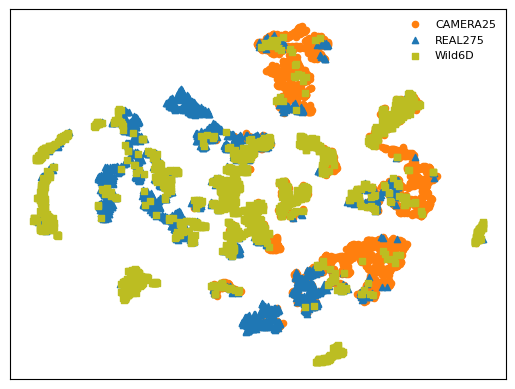
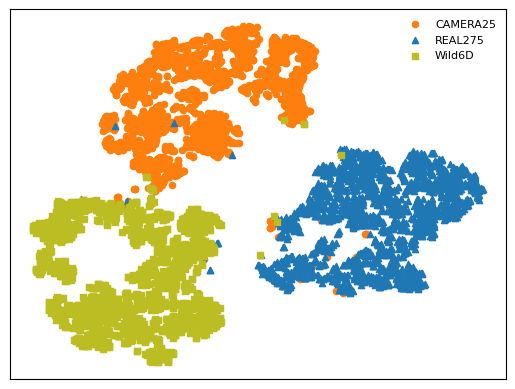
[2023.12.27]

diff --git a/src/network/nocs_wild6d/net.py b/src/network/nocs_wild6d/net.py
@@ -2,18 +2,56 @@ import torch
 import torch.nn as nn
 import torch.nn.functional as F
 
+from src.module.extractor.pts.pointnet_lib.pointnet2 import Pointnet2ClsMSG
+
+# class Net(nn.Module):
+#     def __init__(self, cfg):
+#         super(Net, self).__init__()
+#         self.conv1 = nn.Conv1d(3, 64, 1)
+#         self.conv2 = nn.Conv1d(64, 128, 1)
+#         self.conv3 = nn.Conv1d(256, 256, 1)
+#         self.conv4 = nn.Conv1d(256, 1024, 1)
+#         self.fc = nn.Linear(1024, cfg.emb_dim)
+
+#         self.fc1 = nn.Linear(cfg.emb_dim, 256)
+#         self.fc2 = nn.Linear(256, 128)
+#         self.fc3 = nn.Linear(128, 3)
+
+#     def forward(self, inputs):
+#         pts = inputs['pts']
+#         c = torch.mean(pts, 1, keepdim=True)
+#         pts = pts - c
+#         N = pts.size()[1]
+
+#         x = F.relu(self.conv1(pts.permute(0, 2, 1)))
+#         x = F.relu(self.conv2(x))
+#         global_feat = F.adaptive_max_pool1d(x, 1)
+#         x = torch.cat((x, global_feat.repeat(1, 1, N)), dim=1)
+#         x = F.relu(self.conv3(x))
+#         x = F.relu(self.conv4(x))
+#         x = torch.squeeze(F.adaptive_max_pool1d(x, 1), dim=2)
+#         pts_feat = self.fc(x)
+
+#         out = F.relu(self.fc1(pts_feat))
+#         out = F.relu(self.fc2(out))
+#         out = self.fc3(out)
+#         out = F.softmax(out, -1)
+
+#         outputs = {}
+#         outputs['pts_feat'] = pts_feat
+#         outputs['label_pred'] = out
+#         outputs['label_gt'] = inputs['label']
+
+#         return outputs
+
 class Net(nn.Module):
     def __init__(self, cfg):
         super(Net, self).__init__()
-        self.conv1 = nn.Conv1d(3, 64, 1)
-        self.conv2 = nn.Conv1d(64, 128, 1)
-        self.conv3 = nn.Conv1d(256, 256, 1)
-        self.conv4 = nn.Conv1d(256, 1024, 1)
-        self.fc = nn.Linear(1024, cfg.emb_dim)
+        self.pts_encoder = Pointnet2ClsMSG(0)
 
-        self.fc1 = nn.Linear(cfg.emb_dim, 256)
-        self.fc2 = nn.Linear(256, 128)
-        self.fc3 = nn.Linear(128, 3)
+        self.fc1 = nn.Linear(1024, 512)
+        self.fc2 = nn.Linear(512, 256)
+        self.fc3 = nn.Linear(256, 3)
 
     def forward(self, inputs):
         pts = inputs['pts']
@@ -21,14 +59,7 @@ class Net(nn.Module):
         pts = pts - c
         N = pts.size()[1]
 
-        x = F.relu(self.conv1(pts.permute(0, 2, 1)))
-        x = F.relu(self.conv2(x))
-        global_feat = F.adaptive_max_pool1d(x, 1)
-        x = torch.cat((x, global_feat.repeat(1, 1, N)), dim=1)
-        x = F.relu(self.conv3(x))
-        x = F.relu(self.conv4(x))
-        x = torch.squeeze(F.adaptive_max_pool1d(x, 1), dim=2)
-        pts_feat = self.fc(x)
+        pts_feat = self.pts_encoder(pts)
 
         out = F.relu(self.fc1(pts_feat))
         out = F.relu(self.fc2(out))

diff --git a/src/runner/nocs_wild6d/solver.py b/src/runner/nocs_wild6d/solver.py
@@ -45,6 +45,7 @@ class Solver(gorilla.solver.BaseSolver):
 
         self.per_write = cfg.per_write
 
+        # 加载预训练模型
         if cfg.checkpoint_epoch != -1:
             logger.info("=> loading checkpoint from epoch {} ...".format(cfg.checkpoint_epoch))
             checkpoint = os.path.join(cfg.log_dir, 'epoch_' + str(cfg.checkpoint_epoch) + '.pth')
@@ -113,8 +114,7 @@ class Solver(gorilla.solver.BaseSolver):
                 self.log_buffer.average(self.per_write)
                 prefix = '[{}/{}][{}/{}][{}] Train - '.format(
                     self.epoch, self.cfg.max_epoch, i, len(self.dataloaders["train"]), self.iter)
-                write_info = self.get_logger_info(
-                    prefix, dict_info=self.log_buffer._output)
+                write_info = self.get_logger_info(prefix, dict_info=self.log_buffer._output)
                 self.logger.info(write_info)
                 self.write_summary(self.log_buffer._output, mode)
             
@@ -126,6 +126,27 @@ class Solver(gorilla.solver.BaseSolver):
             self.iter += 1
 
 
+        dict_info_epoch = self.log_buffer.avg
+        self.log_buffer.clear()
+
+        return dict_info_epoch
+    
+    def evaluate(self):
+        mode = 'eval'
+        self.model.eval()
+
+        for i, data in enumerate(self.dataloaders["eval"]):
+            with torch.no_grad():
+                _, dict_info_step = self.step(data, mode)
+                self.log_buffer.update(dict_info_step)
+                if i % self.per_write == 0:
+                    self.log_buffer.average(self.per_write)
+                    prefix = '[{}/{}][{}/{}] Test - '.format(
+                        self.epoch, self.cfg.max_epoch, i, len(self.dataloaders["eval"]))
+                    write_info = self.get_logger_info(
+                        prefix, dict_info=self.log_buffer._output)
+                    self.logger.info(write_info)
+                    self.write_summary(self.log_buffer._output, mode)
         dict_info_epoch = self.log_buffer.avg
         self.log_buffer.clear()
 

diff --git a/src/module/extractor/pts/pointnet_lib/pointnet2.py b/src/module/extractor/pts/pointnet_lib/pointnet2.py
@@ -1,17 +1,9 @@
 import torch
 import torch.nn as nn
-import sys
-import os
 
-sys.path.append(os.path.dirname(os.path.dirname(__file__)))
-from networks.pts_encoder.pointnet2_utils.pointnet2.pointnet2_modules import PointnetFPModule, PointnetSAModuleMSG
-import networks.pts_encoder.pointnet2_utils.pointnet2.pytorch_utils as pt_utils
-from ipdb import set_trace
-from configs.config import get_config
+import src.module.extractor.pts.pointnet_lib.pointnet2_utils.pointnet2.pytorch_utils as pt_utils
 
-
-cfg = get_config()
-
+from src.module.extractor.pts.pointnet_lib.pointnet2_utils.pointnet2.pointnet2_modules import PointnetFPModule, PointnetSAModuleMSG
 
 def get_model(input_channels=0):
     return Pointnet2MSG(input_channels=input_channels)
@@ -78,12 +70,13 @@ ClsMSG_CFG_Lighter= {
     'DP_RATIO': 0.5,
 }
 
+pointnet2_params = 'light'
 
-if cfg.pointnet2_params == 'light':
+if pointnet2_params == 'light':
     SELECTED_PARAMS = ClsMSG_CFG_Light
-elif cfg.pointnet2_params == 'lighter':
+elif pointnet2_params == 'lighter':
     SELECTED_PARAMS = ClsMSG_CFG_Lighter
-elif cfg.pointnet2_params == 'dense':
+elif pointnet2_params == 'dense':
     SELECTED_PARAMS = ClsMSG_CFG_Dense
 else:
     raise NotImplementedError

diff --git a/src/runner/nocs_wild6d/train.py b/src/runner/nocs_wild6d/train.py
@@ -17,12 +17,11 @@ import src.network.nocs_wild6d.net as nocs_wild6d_net
 import src.provider.nocs_wild6d.dataset as nocs_wild6d_dataset
 import src.runner.nocs_wild6d.solver as nocs_wild6d_solver
 
-
 def get_parser():
     parser = argparse.ArgumentParser()
 
     parser.add_argument("--gpus", type=str, default="0", help="gpu num")
-    parser.add_argument("--config", type=str, default="src/config/base.yaml", help="path to config file")
+    parser.add_argument("--config", type=str, default="src/config/nocs_wild6d/base.yaml", help="path to config file")
 
     args_cfg = parser.parse_args()
 
@@ -52,7 +51,10 @@ def init():
 
     cfg = gorilla.Config.fromfile(args.config)  # 读取配置文件(全局参数)
 
-    cfg.gpus = args.gpus
+    for key, value in args.__dict__.items():
+        setattr(cfg, key, value)
+
+    cfg.log_dir = os.path.join('log', cfg.project, cfg.experiment)
 
     # 指定日志记录地址
     if not os.path.isdir(cfg.log_dir):
@@ -90,7 +92,6 @@ if __name__ == "__main__":
     logger.warning("#Total parameters : {}".format(count_parameters))
 
     # Loss
-
     loss = nocs_wild6d_net.Loss(cfg).cuda()
    
     # Dataset

diff --git a/src/runner/nocs_wild6d/test.py b/src/runner/nocs_wild6d/test.py
@@ -83,7 +83,7 @@ if __name__ == "__main__":
     logger.info("=> creating model ...")
     model = nocs_wild6d_net.Net(cfg).cuda()
 
-    gorilla.solver.load_checkpoint(model=model, filename='log/main/epoch_60.pth')
+    gorilla.solver.load_checkpoint(model=model, filename='log/main/epoch_15.pth')
 
     model = model.eval()
 

diff --git a/README.md b/README.md
@@ -1,7 +1,14 @@
+# Deep Learning Development Box
+
+---
+
+## Requirements
+---
 - python 3.9
 - pytorch 1.13.0
 - CUDA 11.6
 
+``` bash
 conda create -n master python=3.9
 pip install torch==1.13.0+cu116 torchvision==0.14.0+cu116 torchaudio==0.13.0 --extra-index-url https://download.pytorch.org/whl/cu116
 
@@ -9,7 +16,7 @@ pip install gorilla-core==0.2.7.8
 
 pip install opencv-python==4.6.0.66
 pip install xformers==0.0.16    # dinov2 related (requires torch==1.13.1)
-pip install triton==2.0.0   # dinov2 related
+pip install triton==2.0.0       # dinov2 related
 
 utils
 pip install scikit-learn==1.3.2
@@ -17,38 +24,78 @@ pip install matplotlib==3.8.0
 
 pip install trimesh==4.0.8
 pip install pyglet==1.5.0
+```
 
+## Directory Structure
+---
+``` bash
 MASTER
-├── data 
+├── data # 数据集
 │   ├── <data_a>
 │   └── <data_b>
-├── src
-│   ├── config
-│   ├── module
+├── src # 代码
+│   ├── config  # 配置文件
+│   │   └── <project_a> # 每个项目每次实验对应一个yaml
+│   │       ├── <experiment_a>.yaml
+│   │       └── <experiment_b>.yaml
+│   ├── module  # 网络常用的模块, 如Encoder, 与具体实验无关
+│   │   ├── <module_a>
+│   │   └── <module_b>
 │   ├── network
+│   │   └── <project_a>
+│   │       └── net.py
 │   ├── provider
+│   │   └── <project_a> 
+│   │       └── dataset.py
 │   ├── runner
-│   └── utils
-└── log
+│   │   └── <project_a>
+│   │       ├── train.py
+│   │       ├── test.py
+│   │       └── solver.py
+│   ├── utils
+│   │   ├── document        # 文件io
+│   │   ├── geometry        # 几何变换
+│   │   └── visualization   # 可视化
+└── log # 项目实验记录
+    └── <project_a>
+        ├── <experiment_a>
+        └── <experiment_b>
 
-export https_proxy=127.0.0.1:7890
+# <project_*>为实验名称
+```
 
-Code Logic
+## Code Logic
+---
+``` bash
+# 库导入顺序
+## 系统相关库
+import os
+import sys
 
-main.py & runner/*
+## 框架相关库
+import gorilla
+import argparse
+import logging
 
-main.py - template of train.py & test.py
+## 基础算法库
+import cv2
+import torch
+import numpy as np
+
+## 网络相关插件 
+import <prefix>.<project>.<item> as <project>_<item>
+
+## 工具相关插件(具体工具函数导入)
+from ... import ... 
+
+runner/train.py
 func get_parser: 设置参数
-func get_logger: 初始化日记记录(文件 + 控制台)
+func get_logger: 初始化日志记录(文件 + 控制台)
 func init: 调用以上两个函数进行初始化
+```
 
-runner
-├── <experiment_a> 
-│   ├── train.py
-│   ├── test.py
-│   └── solver.py
-└── <experiment_b> 
-    ├── train.py
-    ├── test.py
-    └── solver.py
-
+## Common Commands
+---
+``` bash
+export https_proxy=127.0.0.1:7890   # VPN
+```
